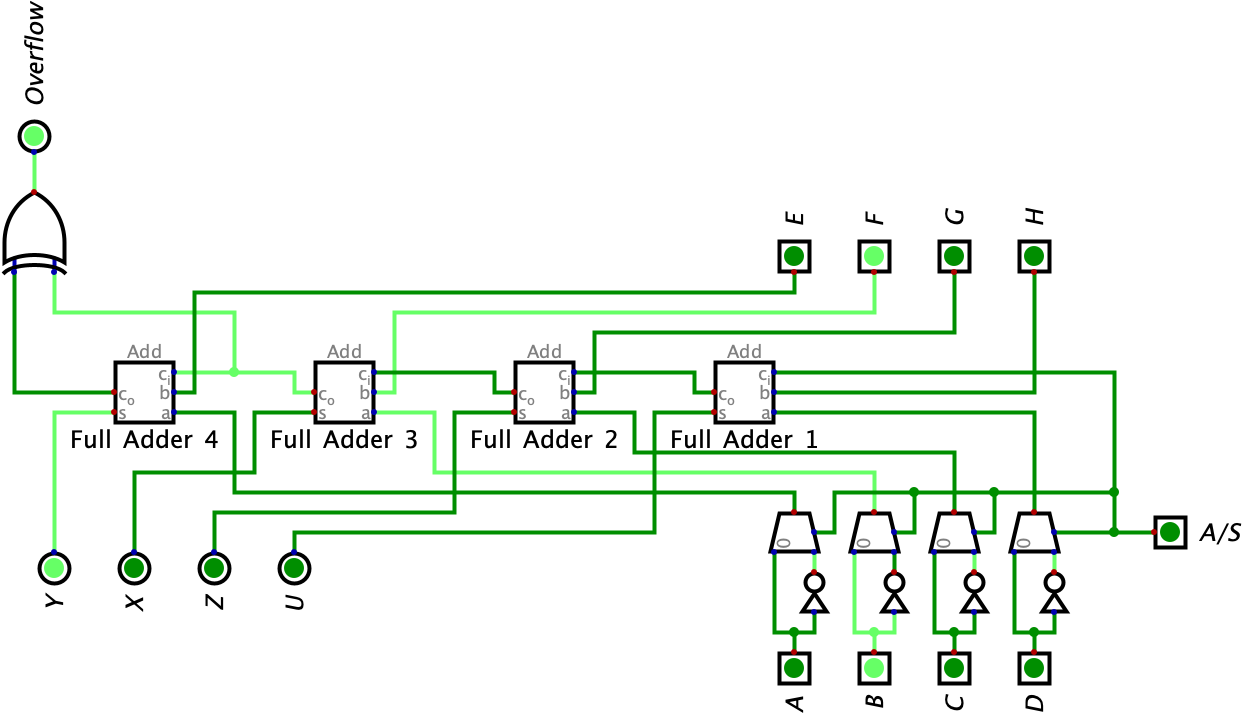
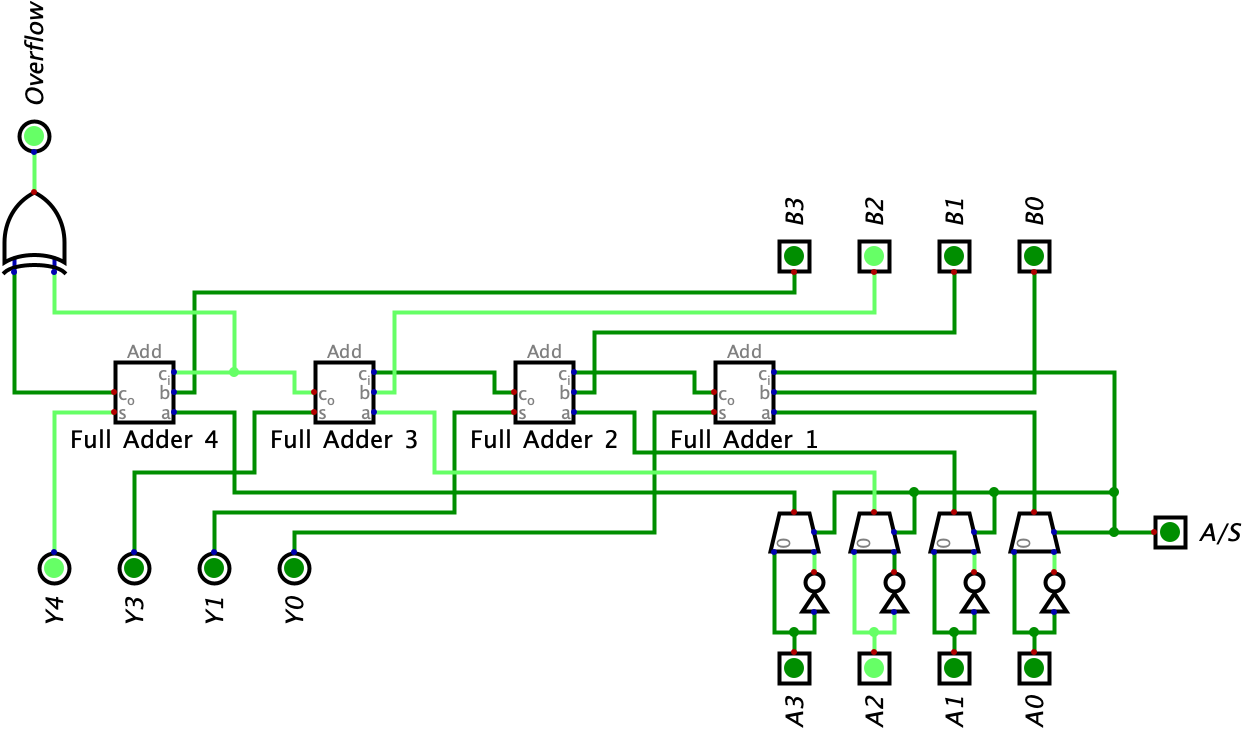
chapter 8 edits

diff --git a/_parts/part08.md b/_parts/part08.md
@@ -23,9 +23,9 @@ date: 2023-11-10
 # Chapter 08 - Ripple Carry Adders
 **Topics Covered:** Ripple-Carry Adders, Adder-Subtractor
 
-Now that we know how to do simple addition using half adders and full adders (which are used to do one-bit addition), I believe we are ready to learn more about ripple-carry adders (for, you guessed it, multi-bit addition). Moreover, we will get to learn why the carry-in bit was so crucial that we needed to create a half adder on steriods (the full adder).
+Now that we know how to do simple addition using half adders and full adders (which are used to do one-bit addition), I believe we are ready to learn about ripple-carry adders (for, you guessed it, multi-bit addition). Moreover, we will get to learn why the carry-in bit was so crucial that we needed to create a half adder on steriods (the full adder).
 
-### Ripple Carry Adder
+### Full Adders and the Carry-In Bit
 
 Imagine now we are adding two numbers: $$3_{10}$$ and $$1_{10}$$. In binary format, these numbers would be represented as $$11_{2}$$ and $$01_{2}$$ respectively. Essentially, our expression here can be represented as $$11_{2}+01_{2}$$. Let's add these values using a table.
 
@@ -36,40 +36,50 @@ Imagine now we are adding two numbers: $$3_{10}$$ and $$1_{10}$$. In binary form
 | Number 1 |   | 0 | 1 |
 | **Result** | **1** | **0** | **0** |
 
-In the above table, we add the binary equivalent of the $$3_{10}$$ (row 2) with the binary equivalent of the number $$1_{10}$$ (row 3) to get a result of $$100_{2}$$ which is equivalent to $$4_{10}$$ (row 4). But, more importantly, do you notice how we now have a carry-over bit from the first column to the second column? This is why full-adders are so important: now, we can finally use the new carry-in input on the full-adder to account for that carry-over bit in the second column. Let's now try to build this using a ripple carry adder, which is, nonetheless, multiple combined full adders.
+In the above table, we add the binary equivalent of the $$3_{10}$$ (row 2) with the binary equivalent of the number $$1_{10}$$ (row 3) to get a result of $$100_{2}$$ which is equivalent to $$4_{10}$$ (row 4). But, more importantly, do you notice how we now have a carry-over bit from the first column to the second column? This is why full-adders are so important: now, we can finally use the new carry-in input on the full-adder to account for that carry-over bit in the second column. Hold on a second though. In the last chapter, we learned that Half Adders and Full Adders can be used to do 1-bit addition. But now that we know the advantage of Full Adders lies in their ability to utilize the carry-in input and carry-out output, we can effectively chain multiple Full Adders together. This configuration, known as a Ripple Carry Adder, allows us to represent multi-bit addition with carry-over logic.
 
-Before we get into building the circuit for ripple carry adders, let's go over a few details. Notice how we have two bits for each of the numbers, we can use a full adder to do the addition for each corresponding bit (or each column of the table). So, essentially, we can use a full adder to represent the addition happening in the **First Bit** column and use another full adder to represent the addition happening in the **Second Bit** column. **Each corresponding bit (in other words, each bit in the same position) will be added together from both binary values.** This is pretty similar to how we do regular addition: add the one's place, the ten's place, the hundred's place, and so on. Let's look at the circuit below to see what this example looks like.
+### Ripple Carry Adder
+
+#### 2-Bit Example
+
+Let's analyze how a Ripple Carry Adder is just multiple Full Adders combined before we dive into building the circuit. Notice from the example above how we have two bits for each of the numbers, we can use a full adder to do the addition for each corresponding bit (or each column of the table). So, essentially, we can use a full adder to represent the addition happening in the **First Bit** column and use another full adder to represent the addition happening in the **Second Bit** column. **Each corresponding bit (in other words, each bit in the same position) will be added together from both binary values.** This is pretty similar to how we do regular addition: add the one's place, the ten's place, the hundred's place, and so on. Let's look at the circuit below to see what this example looks like:
 
 <img src="https://milen-patel.github.io/cpu_tutorial/assets/part8/images/Ripple_Carry_1.png" style="display: block; margin-left: auto; margin-right: auto;" />
 
-*Aside: As you can see in the above, we don't have our typical circuit with the gates. Usually when we build circuit diagrams, we try to simplify the circuit by using a schematic symbol. In this case, the box we have is used to represent a full adder instead of drawing the entire full circuit adder we had in Chapter 7 multiple times. You will see these schematic symbols used throughout the book and we will label them or point out what they should be representing.*
+*Aside: As you can see in the above, we don't have our typical circuit with the gates. Usually when we build circuit diagrams, we try to simplify the circuit by using a schematic symbol. In this case, the box we have is used to represent a Full Adder instead of using the entire Full Adder circuit we built in Chapter 7 multiple times. You will see these schematic symbols used throughout the book and I will label them or point out what they should be representing.*
 
-*Aside: You might have also seen a weird looking symbol going into the carry-in input (the dash). This symbol is just supposed to represent a grounded input meaning it sends an electrical signal of 0 or off.*
+*Aside: You might have also seen a weird looking symbol going into the carry-in input (the dash). This symbol is just supposed to represent a grounded input meaning it sends an electrical signal of 0 or off. Don't worry about the carry-in input for the initial Full Adder of our Ripple Carry Adder circuit (we will get to this later).*
 
-In the example above, let's let AB be equal to $$11_{2}$$ and let's let CD be equal to $$01_{2}$$. Notice how each corresponding bit goes to the same full adder (so the bits B and D go to Full Adder #1 and the bits C and A go to Full Adder #2). Intuitively, this makes sense because we are adding bits which are in the same place value (as mentioned earlier).
+Notice in the example above how each corresponding bit in the same place value goes to the same full adder (so the bits A1 and B1 go to Full Adder #1 and the bits A2 and B2 go to Full Adder #2). Intuitively, this makes sense because we are adding bits which are in the same place value (as mentioned earlier).
 
-So, let's review how the carry-in bit comes into play again. As pointed out earlier, notice how when we add the bits in the *First Bit* column, there's a carry over? Well, we can use the carry-over bit outputted from the first full adder and insert it into the carry-in input in the second full adder. This is shown in the image below.
+So, let's review how the carry-in bit comes into play. As pointed out earlier, notice how when we add the bits in the **First Bit** column, there's a carry over? Well, we can use the carry-over bit outputted from the first full adder and insert it into the carry-in input in the second full adder. This is shown in the image below.
 
 <img src="https://milen-patel.github.io/cpu_tutorial/assets/part8/images/Ripple_Carry_2.png" style="display: block; margin-left: auto; margin-right: auto;" />
 
-This is an important concept because now we are on our way to creating our first Ripple Carry Adder. We can use the carry-over bit to now do addition with multi-bit binary values. Without the carry-over output and the carry-in input on a full adder, we wouldn't accurately be able to do multi-bit addition. 
+This is an important concept because now we are on our way to creating our first Ripple Carry Adder. We can use the carry-over bit to now do addition with multi-bit binary values. Without the carry-over output and the carry-in input on a full adder, we wouldn't accurately be able to do multi-bit addition since the carry-over logic wouldn't be supported. 
 
 Let's finish the circuit by displaying the output:
 
 <img src="https://milen-patel.github.io/cpu_tutorial/assets/part8/images/Ripple_Carry_3.png" style="display: block; margin-left: auto; margin-right: auto;" />
 
-Congrats!!! You just built your first Ripple Carry Adder. 
+Congrats! You just built your first Ripple Carry Adder. 
 
-Now, let's try a slightly harder example. This time we will be added 2 4-bit binary values (the general rule for ripple carry adders is you can add 2 n-bit binary values at a time). So, just for example sake, I chose two random numbers: $$15_{10}$$ and $$8_{10}$$ ($$1111_{2}$$ and $$1000_{2}$$ in binary respectfully). We can create another table like we did for the last example:
+#### What the Carry Bit Means
+
+In the example above, you might have noticed that the Carry output was on. Usually, Ripple Carry Adders are used to do unsigned binary addition (review Chapter 5 if you still are unclear on what this means). If you recall, in unsigned binary addition, we have an **error** when the **Carry** bit is on because we are adding 2 2-bit numbers, but our result needs 3-bits in order to be represented accurately. If this still doesn't make sense, I'll make it simple for you in a one-line: if the **Carry** bit is on after performing unsigned binary addition (which is what Ripple Carry adders do), we have an issue.
+
+#### 4-bit Example
+
+Now, let's try a slightly harder example. This time we will be added 2 4-bit binary values (the general rule for ripple carry adders is you can add 2 N-bit binary values at a time). So, just for example sake, I chose two random numbers: $$2_{10}$$ and $$8_{10}$$ ($$0010_{2}$$ and $$1000_{2}$$ in binary respectfully). We can create another table like we did for the last example:
 
 | | Fifth Bit (Carry Out) | Fourth Bit | Third Bit | Second Bit | First Bit |
 |:-- |:---:|:---:|:---:|:---:|:---:|
 | Carry Over from Previous Column  |   | 0 | 0 | 0 | 0 |
-| Number 15 |   | 1 | 1 | 1 | 1 |
+| Number 2 |   | 0 | 0 | 1 | 0 |
 | Number 8 |   | 1 | 0 | 0 | 0 |
-| **Result** | **1** | **0** | **1** | **1** | **1** |
+| **Result** |  | **1** | **0** | **1** | **0** |
 
-So the result of $$1111_{2}+1000_{2}$$ was $$10111_{2}$$ which is $$32_{10}$$. Let's build our ripple carry adder:
+So the result of $$0010_{2}+1000_{2}$$ was $$1010_{2}$$ which is $$10_{10}$$. Let's build our ripple carry adder:
 
 <img src="https://milen-patel.github.io/cpu_tutorial/assets/part8/images/Ripple_Carry_4.png" style="display: block; margin-left: auto; margin-right: auto;" />
 
@@ -77,7 +87,7 @@ So again, we need to add the bits from the same place values and carry over the 
 
 ### Adder-Subtractor 
 
-Now that you're an expert in full adders and ripple carry adders, it's time for another round of roids. This time around we are going to create a circuit called the adder-subtractor. An adder-subtractor allows us to perform subtraction with binary values with a few tweaks to our ripple carry adder. Before we introduce the circuit, let's go over 2 important ideas that we need to know about first:
+Now that you're an expert in Full Adders and Ripple Carry Adders, it's time for another round of roids. This time around we are going to create a circuit called the Adder-Subtractor. An Adder-Subtractor allows us to perform both addition and subtraction with binary values with a few tweaks to our Ripple Carry Adder. Before we introduce the circuit, let's go over 2 important ideas that we need to know about first:
 
 1. When we want to find the value of a negative integer number in binary, we use two's complement. Two's complement follows three simple steps: find the binary representation of the positive version of the negative integer number, flip all the binary bits, and then add one to the result. Review chapter 5 if this does not make sense.
 2. We also need to learn what a 2-to-1 multiplexor is. Essentially, we have a selector bit (C in the truth table and circuit below) which chooses between two different inputs. So if we have two inputs, A and B, the A bit will be outputted if the selector bit is 0 and the B bit will outputted if the selector bit is 1. That's it, simple right? I've included the truth table and an example of the circuit below:
@@ -102,17 +112,19 @@ Now, that we have reviewed binary subtraction and what a multiplexor is, let's t
 <img src="https://milen-patel.github.io/cpu_tutorial/assets/part8/images/Adder_Subtractor_1.png" style="display: block; margin-left: auto; margin-right: auto;" />
 
 So, let's dissect this: 
-* The first thing I would like discuss is our inputs. When using an adder-subtractor, we are going to normalize the inputs using two's complement. So Input A (which are the bits ABCD) and Input B (which are the bits EFGH) should be using two's complement form whether we are doing addition or subtraction. In our case, since we are only using 4 bits, we can only represent numbers from $$-8_{10}$$ to $$7_{10}$$.
-* Next, let's discuss how addition works and introduce the use of the multiplexors. As you notice, we have an extra (third input): the A/S bit (Adder/Subtractor for short). When the A/S bit is 0 or off, it means we are doing addition and when the A/S is 1 or on, it means we are doing subtraction. In the case of addition, our circuit works exactly like the Ripple Carry Adder (except the inputs are in two's complement). So this means Input A is passed in as normal. And for Input B, we choose the non-inverted bits since the multiplexor receives a select bit of 0. This means we can do addition as normal. Keep in mind though that since we are working with two's complement, it is possible to see overflow. When doing addition, if the end result results in a negative number (when the MSB is equal to 1), it means we have an overflow. In our case, if bit Y is equal to 1, then we have an overflow.
-* In the case of subtraction, this is where things get interesting. Let's say we are trying to solve for the following expression: $$5_{10}-2_{10}$$. Wait a second, there's a problem here. If you realized we don't have a circuit for subtraction, then you're absolutely correct. At the beginning of the section to Adder-Subtractor circuits, do you remember how we reviewed the rules for two's complement. Well, we can use it here. Essentially, we can use two's complement to turn this equation into $$5_{10}+(-2_{10})$$. We are turning the positive $$2_{10}$$ into a negative $$2_{10}$$ so we can do addition instead since we already know how to do addition. So, we can use the Ripple Carry Adder to also do subtraction by changing up a couple of things here and there.
-* Wait a second, we aren't totally done yet. Now that we understand how to do subtraction using the Adder-Subtractor circuit, we need to understand how the circuit works. In order to do subtraction, we need to invert the bits and add one to the binary value of the subtrahend. When we turn on the A/S bit, see how that input is connected to all the multiplexors and the carry-in input of the first full adder. Respectfully, this inverts all of the bits of the subtrahend by choosing the inverted bit using the multiplexors (notice how one input of each multiplexor is inverted through the use of the NOT gate) and then adds one in order to flip the second value.
-* Lastly, as we read in Chapter 5, overflow can occur when dealing with binary values in two's complement. In order to see whether our addition or subtraction results in overflow, we just need to take the XOR of the carry-in and carry-out bits of the MSB.
+* The first thing I would like discuss is our inputs. When using an adder-subtractor, we are going to normalize the inputs using two's complement. So Input A (on the bottom) and Input B (on the top) should be using two's complement form whether we are doing addition or subtraction. In our case, since we are only using 4 bits, we can only represent numbers from $$-8_{10}$$ to $$7_{10}$$.
+* Next, let's talk about the A/S bit and the use of the multiplexors for Input A. Looking at the A/S bit, the first thing we need to understand is if the A/S bit is off, then we are doing addition and if the A/S bit is on, then we are doing subtraction. This A/S bit is inputed into multiple places: the carry-in bit of Full Adder 1 and all the multiplexors above Input A. You might be asking why that is and the answer to your question is to perform subtraction. In our circuit, the subtraction operation is represented by the equation $$B-A$$ where B and A are both binary values. When the A/S bit is on, it allows us to perform two's complement on Input A which, in turn, allows us to addition (remember, it's easier to negate the subtrahend and add the binary values instead of subtract). Essentially, we are now able to represent $$B+(-A)$$ with our circuit. And from the introduction to Adder-Subtractors above, it is mentioned how we need to do 2 things in order to find the two's complement of Input A: invert the bits and add 1. Let's understand how the A/S bit actually let's us do both of these things:
+	* It is able to invert the bits through the use of the multiplexors because these multiplexors are fed the normal input of its respective bit from A and the inverted input of its respective bit from A. When the A/S bit is turned on, all of these multiplexors choose the inverted bit. This allows us to meet the first condition of being able to subtract (inversion).
+	*  We are also able to add 1 by feeding a positive signal from the A/S bit to the first carry-in bit of Full Adder 1 which allows us to meet the second condition of being able to subtract (adding 1).
+* Now that we understand the purpose of the A/S bit and multiplexors, let's dig in further. When the A/S bit is 0, it means we are doing addition. Again, this means we are choosing the normal input of A and nothing is being fed into the carry-in input of Full Adder 1. So essentially, when the A/S bit is turned off, we are just dealing with a Ripple Carry Adder.
+* In the case of subtraction, we are able to use the two's complement of the subtrahend when the A/S bit is 1 (the more specific details of how the A/S bit is able to do this is covered in the 2nd point). This enables us to perform addition with the Input B and the two's complement version of Input A, $$B+(-A)$$ instead of having to build a whole other circuit to do $$B-A$$ (because remember we are dealing with adders and not subtractors).
+* Lastly, as we read in Chapter 5, overflow can occur when dealing with binary values in two's complement (again, overflow in two's complement is equivalent to getting a positive result adding two negative values or a negative result adding two positive values meaning our result is out of range and cannot be represented accurately). In order to see whether our addition or subtraction results in overflow, we just need to take the XOR of the carry-in and carry-out bits of the MSB (don't worry about how this exactly works, but if you look at the top-right of the Adder-Subtractor circuit, you will see this implementation). 
 
-Now that we understand how the circuit functions at a deeper level, let's take a look at a few examples. The first example I want to look at is basic addition. Again, addition in an adder-subtractor circuit works the same way it does in a ripple carry adder (but with two's complement). Before we jump into the example, note that input A is $$0100_{2}$$ and input B is $$0001_{2}$$. Together, they should add to $$0101_{2}$$.
+Now that we understand how the circuit functions at a deeper level, let's take a look at a few examples. The first example I want to look at is basic addition. Again, addition in an adder-subtractor circuit works the same way it does in a ripple carry adder (but with two's complement). Before we jump into the example, note that input A is $$0100_{2}$$ and input B is $$0001_{2}$$ ($$4_{10}$$ and $$1_{10}$$ respectively). Together, they should add to $$0101_{2}$$ ($$5_{10}$$).
 
 <img src="https://milen-patel.github.io/cpu_tutorial/assets/part8/images/Adder_Subtractor_2.png" style="display: block; margin-left: auto; margin-right: auto;" />
 
-Now, we are going to take an example of addition which results in overflow. In this new example, input A is $$0100_{2}$$ and input B is $$0100_{2}$$ resulting in an overflow.
+Now, we are going to take an example of addition which results in overflow. In this new example, input A is $$0100_{2}$$ and input B is $$0100_{2}$$ resulting in an overflow (I will let you work the math and logic out).
 
 <img src="https://milen-patel.github.io/cpu_tutorial/assets/part8/images/Adder_Subtractor_3.png" style="display: block; margin-left: auto; margin-right: auto;" />
 
